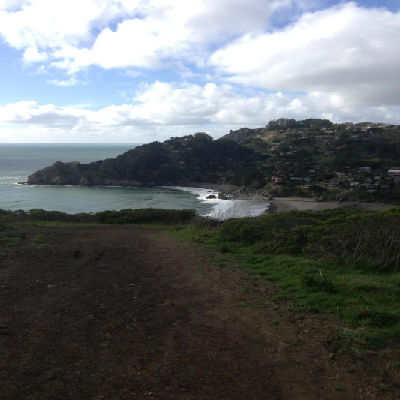
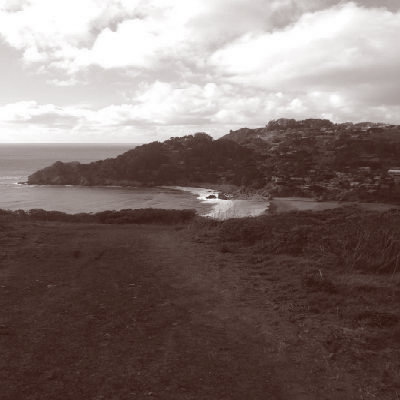
remove bootstrap and add color image rollover to gallery

diff --git a/contact.html b/contact.html
@@ -3,7 +3,7 @@
 
 <head>
 	<meta http-equiv="Content-Type" content="text/html; charset=UTF-8" />
-	<link href="stylesheets/bootstrap.min.css" rel="stylesheet" media="screen">
+<!-- 	<link href="stylesheets/bootstrap.min.css" rel="stylesheet" media="screen"> -->
 	<link rel="stylesheet" type="text/css" href="stylesheets/style.css">
 	<title>Aimee Knight</title>
 </head>
@@ -30,20 +30,32 @@
 			<form action="MAILTO:#" method="post" enctype="text/plain">
 
 				<label for="name">Name:</label>
+				<br />
 				<input name="name" id="name" type="text" class="required">
 				<span id="name">Your name is required.</span>
+				<br />
+				<br />
 
 				<label for="email">Email:</label>
+				<br />
 				<input name="email" id="email" type="text" class="required"> 
-				<span id="email">A valid email address is required.</span>
+				<span id="email">Your email has not be sent. A valid email address is required. Please enter a valid email and resubmit.</span>
+				<br />
+				<br />
 
 				<label for="subject">Subject:</label>
+				<br />
 				<input name="subject" id="subject" type="text"> 
 				<span id="subject">A subject is required.</span>
+				<br />
+				<br />
 
 				<label for="message">Message</label>
-				<textarea name="message" id="message" class="required"></textarea> 
+				<br />
+				<textarea name="message" id="message" class="required" rows="10" cols="50"></textarea> 
 				<span id="message">A message is required.</span>
+				<br />
+				<br />
 
 				<br>
 				<input type="submit" value="Submit" class="submit">
@@ -62,33 +74,36 @@
 <script type="text/javascript" src="javascripts/script.js"></script>
 <script>
 $(document).ready(function(){
+	var match = /^([a-z0-9_\.-]+)@([\da-z\.-]+)\.([a-z\.]{2,6})$/;
+
 	$('span').hide();
 	$('.submit').click(function(e){
 
 		$('span').hide();
-			var $name = $('input#name').val();
-				if ($name == "") {
-					$('span#name').show();
-					e.preventDefault();
-				}	
+			// var $name = $('input#name').val();
+			// 	if ($name == "") {
+			// 		$('span#name').show();
+			// 		e.preventDefault();
+			// 	}	
 
 			var $email = $('input#email').val();
-				if ($email == "" || $email.indexOf('@') == -1) {
+				if ($email.search(match) == -1) {
 					$('span#email').show();
+					$('input#email').focus();
 					e.preventDefault();
 				}	
 
-			var $subject = $('input#subject').val();
-				if ($subject == "") {
-					$('span#subject').show();
-					e.preventDefault();
-				}	
+			// var $subject = $('input#subject').val();
+			// 	if ($subject == "") {
+			// 		$('span#subject').show();
+			// 		e.preventDefault();
+			// 	}	
 
-			var $message = $('textarea#message').val();
-				if ($message == "") {
-					$('span#message').show();
-					e.preventDefault();
-				}	
+			// var $message = $('textarea#message').val();
+			// 	if ($message == "") {
+			// 		$('span#message').show();
+			// 		e.preventDefault();
+			// 	}	
 	});
 });	
 </script>

diff --git a/trails.html b/trails.html
@@ -3,7 +3,7 @@
 
 <head>
 	<meta http-equiv="Content-Type" content="text/html; charset=UTF-8" />
-	<link href="stylesheets/bootstrap.min.css" rel="stylesheet" media="screen">
+<!-- 	<link href="stylesheets/bootstrap.min.css" rel="stylesheet" media="screen"> -->
 	<link rel="stylesheet" type="text/css" href="stylesheets/style.css">
 	<title>Aimee Knight</title>
 </head>
@@ -28,9 +28,9 @@
 		<div class="span8 offset2">
 			<div id="gallery"> 
 				<h2>Running Trails</h2>
-				<a href="images/muir.jpg"><img src="images/muir.jpg" width="250px" height="250px" alt="muir beach"></a>
-				<a href="images/sausalito.jpg"><img src="images/sausalito.jpg" width="250px" height="250px" alt="sausalito"></a>
-				<a href="images/sonoma.jpg"><img src="images/sonoma.jpg" width="250px" height="250px" alt="sonoma"></a>
+				<a href="images/muir_c.jpg"><img src="images/muir.jpg" width="250px" height="250px" alt="muir beach"></a>
+				<a href="images/sausalito_c.jpg"><img src="images/sausalito.jpg" width="250px" height="250px" alt="sausalito"></a>
+				<a href="images/sonoma_c.jpg"><img src="images/sonoma.jpg" width="250px" height="250px" alt="sonoma"></a>
 			</div>
  		</div>
 
@@ -46,7 +46,24 @@
 <script type="text/javascript" src="javascripts/script.js"></script>
 <script>
 $(document).ready(function(){
-$('#gallery img').hover(
+
+	$('#gallery img').each(
+		function() {
+			var bwImg = $(this).attr('src');
+			var colorImg = new Image();
+			var imgExt = /(\.\w{3,4}$)/;
+			colorImg.src = bwImg.replace(imgExt,'_c$1');
+
+	$(this).mouseover(
+		function() {
+			$(this).attr('src', colorImg.src);
+	}).mouseout(
+		function() {
+			$(this).attr('src', bwImg);
+		});
+	}); 
+
+	$('#gallery img').hover(
 	function() {
 		var imgTitle = $(this).attr('alt');
 		var placement = $(this).offset();
@@ -60,6 +77,7 @@ $('#gallery img').hover(
 	function() {
 			$('.title').stop().remove();
 	});
+
 });
 </script>
 </body>

diff --git a/stylesheets/style.css b/stylesheets/style.css
@@ -1,8 +1,40 @@
+/********** BOOTSTRAP CLEANUP **********/
+.container-fluid {
+	margin-top: 80px;
+}
+
+body {
+	font-family: Arial, Helvetica, sans-serif;
+}
+.row-fluid {
+	width: 100%
+}
+#gallery {
+	margin-left: auto;
+	margin-right: auto;
+	text-align: center
+}
+.well {
+	padding: 20px 10px;
+	width: 400px;
+	background-color: #27ae60;
+	text-align: center;
+	margin-right: auto;
+	margin-left: auto;
+	color: #fff;
+	border-radius: 5px;
+}
+
 /********** NAV **********/
 nav {
 	background: #272727;
 	float: left;
 	width: 100%;
+ 	position:fixed;
+ 	top:0px;
+ 	left: 0px;
+ 	margin: 0px;
+ 	padding: 0px;
 }
 nav ul {
 	text-align: center;
@@ -18,6 +50,7 @@ nav ul li a {
 	display: block;
 	padding: 15px 25px;
 	color: #c6c6c6;
+	text-decoration: none;
 }
 nav ul li a:hover {
 	text-decoration: none;
@@ -39,6 +72,7 @@ nav ul li a:hover {
 	display: block;
 	padding: 15px 10px;
 	color: #fff;
+	text-decoration: none;
 }
 
 /********** HEADER **********/
@@ -61,6 +95,7 @@ div.hero {
 }
 .wod h4 {
 	text-align: center;
+	color: #3498db;
 }
 .generate_wod {
 	text-align: center;

diff --git a/index.html b/index.html
@@ -3,7 +3,7 @@
 
 <head>
 	<meta http-equiv="Content-Type" content="text/html; charset=UTF-8" />
-	<link href="stylesheets/bootstrap.min.css" rel="stylesheet" media="screen">
+<!-- 	<link href="stylesheets/bootstrap.min.css" rel="stylesheet" media="screen"> -->
 	<link rel="stylesheet" type="text/css" href="stylesheets/style.css">
 	<title>Aimee Knight</title>
 </head>
@@ -53,7 +53,7 @@
 							<li><a href="jQmm/chapter03/conditional.html">Using Conditional Statements</a></li>
 							<li><a href="jQmm/chapter03/quiz.html">A Simple Quiz</a></li>
 						<h4>Week 5</h4>
-							<li><a href="jQmm/chapter05/events_intro.html">Introducting Events</a></li>
+							<li><a href="jQmm/chapter05/events_intro.html">Introducing Events</a></li>
 							<li><a href="jQmm/chapter05/faq.html">A One Page FAQ</a></li>
 						<h4>Week 6</h4>
 							<li><a href="jQmm/chapter06/signup.html">Login Slider</a></li>

diff --git a/crossfit.html b/crossfit.html
@@ -3,7 +3,7 @@
 
 <head>
 	<meta http-equiv="Content-Type" content="text/html; charset=UTF-8" />
-	<link href="stylesheets/bootstrap.min.css" rel="stylesheet" media="screen">
+<!-- 	<link href="stylesheets/bootstrap.min.css" rel="stylesheet" media="screen"> -->
 	<link rel="stylesheet" type="text/css" href="stylesheets/style.css">
 	<title>Aimee Knight</title>
 </head>
@@ -45,11 +45,13 @@
 							<p>Run 200m 10 squats 10 push ups 5 rounds.</p>
 						</div>
 			</div>
+			<br />
 		
+			<hr>	
 			<div class="wod span8">
 				<h2>Standard WOD'S</h2>
-				<hr>
-
+<!-- 				<hr>
+ -->
 				<div class="generate_wod">
 					<h4>Ready... set... sweat!</h4><br />
 					<button class="btn btn-primary">Generate WOD</button>

diff --git a/README.md b/README.md
@@ -1,1 +1,3 @@
 <p>Project for UML's Javascript 90.302 course. Fall 2013.</p>
+
+
